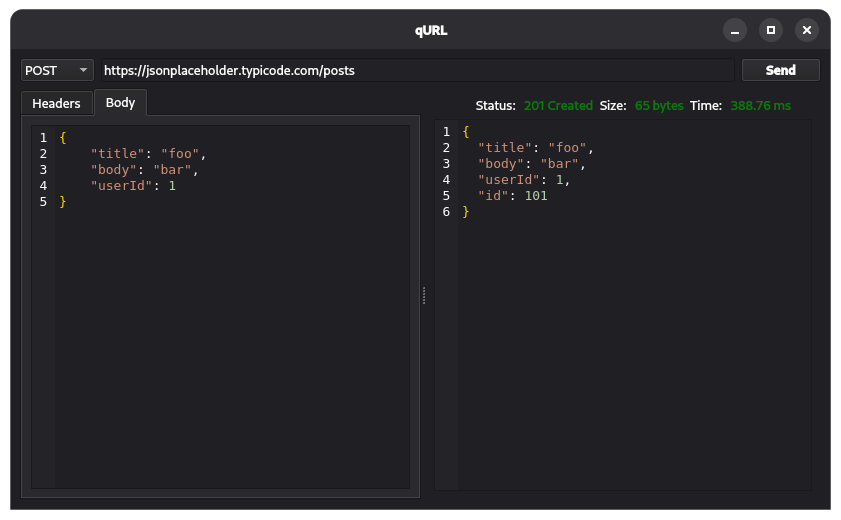
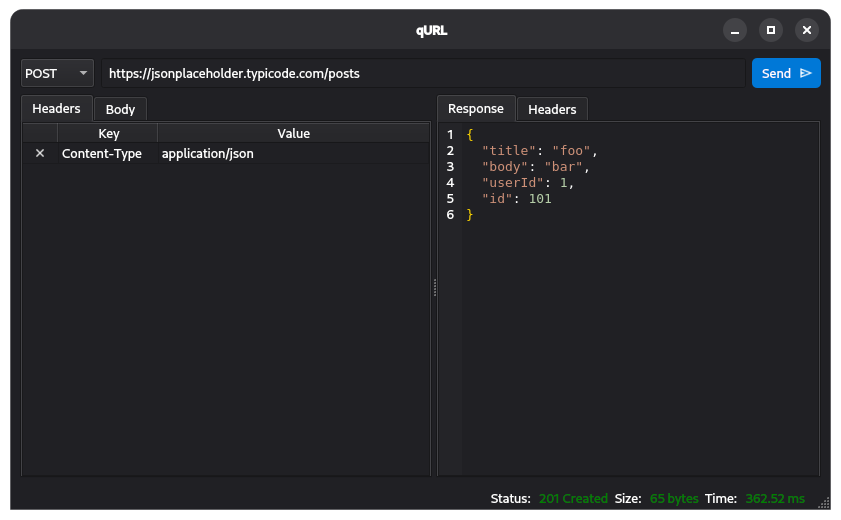
added table for response header

diff --git a/ui.py b/ui.py
@@ -1,6 +1,6 @@
 from PySide6.QtWidgets import QApplication, QTableWidget, QWidget, QMainWindow, QVBoxLayout, QHBoxLayout, QComboBox, QLineEdit, QPushButton, QPlainTextEdit, QSplitter, QTabWidget, QLabel, QStyledItemDelegate
 from PySide6.QtGui import Qt, QFont, QFontMetrics
-from components.request_headers_table import RequestHeadersTable
+from components.table import Table
 import service
 from components.syntax_highlighter import JsonHighlighter
 from qasync import asyncSlot
@@ -26,7 +26,6 @@ class MainWindow(QMainWindow):
 
         self.combo_box = QComboBox(self)
         self.combo_box.setObjectName("method_selector")
-        # self.combo_box.view().setContentsMargins(0, 0, 0, 0)
         self.combo_box.addItem("GET")
         self.combo_box.addItem("POST")
         self.combo_box.addItem("PUT")
@@ -48,8 +47,7 @@ class MainWindow(QMainWindow):
         top_layout.addWidget(self.line_edit)
         top_layout.addWidget(self.send_button)
 
-        # self.header_input = QPlainTextEdit()
-        self.header_input = RequestHeadersTable()
+        self.header_input = Table(editable=True)
         self.body_input = CodeEditor()
         metrics = QFontMetrics(self.header_input.font())
         self.body_input.setTabStopDistance(4 * metrics.horizontalAdvance(' '))
@@ -59,10 +57,6 @@ class MainWindow(QMainWindow):
         central_layout = QSplitter(Qt.Horizontal)
 
         request_tab_widget = QTabWidget()
-        # headers_tab = QWidget()
-        # headers_tab_layout = QVBoxLayout(headers_tab)
-        # headers_tab_layout.addWidget(self.header_input)
-        # self.request_headers_table = RequestHeadersTable()
 
         body_tab = QWidget()
         body_tab_layout = QVBoxLayout(body_tab)
@@ -74,22 +68,10 @@ class MainWindow(QMainWindow):
 
         # right section
 
-        # right_section_widget = QWidget()
-        # right_section = QVBoxLayout(right_section_widget)
-
-        # response_info_container = QHBoxLayout()
-        # response_info_container.setAlignment(Qt.AlignmentFlag.AlignRight)
-        # response_info_container.setContentsMargins(0, 0, 20, 0)
-
         self.status_label = QLabel("")
         self.size_label = QLabel("")
         self.time_label = QLabel("")
-
-        # response_info_container.addWidget(self.status_label)
-        # response_info_container.addWidget(self.size_label)
-        # response_info_container.addWidget(self.time_label)
-        
-
+      
         self.response_editor = CodeEditor()
         metrics = QFontMetrics(self.response_editor.font())
         self.response_editor.setTabStopDistance(4 * metrics.horizontalAdvance(' '))
@@ -97,20 +79,16 @@ class MainWindow(QMainWindow):
         self.response_editor.setReadOnly(True)
         self.highlighter = JsonHighlighter(self.response_editor.document())
 
-        self.response_header_editor = QPlainTextEdit()
-        self.response_header_editor.setReadOnly(True)
+        # self.response_header_editor = QPlainTextEdit()
+        # self.response_header_editor.setReadOnly(True)
+        self.response_header_editor = Table(editable=False)
 
         response_tab_widget = QTabWidget()
-        # response_tab = QWidget()
-        # response_tab_layout = QVBoxLayout(response_tab)
-        # response_tab_layout.addWidget(self.response_editor)
+        
 
         response_tab_widget.addTab(self.response_editor, "Response")
         response_tab_widget.addTab(self.response_header_editor, "Headers")
-        # right_section.addLayout(response_info_container)
-        # right_section.addWidget(response_tab_widget)
-
-        # right_section.addWidget(self.response_editor)
+        
         central_layout.addWidget(response_tab_widget)
         
 
@@ -126,14 +104,12 @@ class MainWindow(QMainWindow):
         
         self.setCentralWidget(container)
         self.status_bar = self.statusBar()
-        # self.combo_box.setItemDelegate(QStyledItemDelegate())
 
     @asyncSlot()
     async def button_clicked(self):
         self.send_button.setDisabled(True)
         try:
-            print(self.header_input.get_headers())
-            result = await service.invoke(url=self.line_edit.text(), method=self.combo_box.currentText(), headers=self.header_input.get_headers(), body=self.body_input.toPlainText())
+            result = await service.invoke(url=self.line_edit.text(), method=self.combo_box.currentText(), headers=self.header_input.get_data(), body=self.body_input.toPlainText())
 
             color = "white"
             if result["status"] >= 100 and result["status"] < 200:
@@ -146,7 +122,8 @@ class MainWindow(QMainWindow):
                 color = "red"
 
             self.response_editor.setPlainText(str(result["content"]))
-            self.response_header_editor.setPlainText(transform_headers_dict(result["headers"]))
+            # print(transform_headers_dict(result["headers"]))
+            self.response_header_editor.set_data(result["headers"])
 
             self.status_label.setText(f"Status:&nbsp;&nbsp;&nbsp;<span style='color: {color}'>{str(result['status'])} {HTTP_STATUS_CODES[result['status']]}</span>")
             self.size_label.setText(f"Size:&nbsp;&nbsp;&nbsp;<span style='color: {color}'>{str(result['size'])} bytes</span>")

diff --git a/components/table.py b/components/table.py
@@ -1,28 +1,39 @@
 from PySide6.QtCore import QPoint
-from PySide6.QtWidgets import QAbstractItemView, QHBoxLayout, QHeaderView, QLabel, QPushButton, QTableWidget, QTableWidgetItem, QWidget, QVBoxLayout
+from PySide6.QtWidgets import QAbstractItemView, QHBoxLayout, QHeaderView, QLabel, QPushButton, QTableWidget, QTableWidgetItem, QWidget, QVBoxLayout, QHeaderView
 from PySide6.QtGui import QIcon, Qt
 from qt_material_icons import MaterialIcon
 
-class RequestHeadersTable(QWidget):
-    def __init__(self):
+class Table(QWidget):
+    def __init__(self, editable=True):
         super().__init__()
         layout = QVBoxLayout(self)
         layout.setContentsMargins(0, 0, 0, 0)
-        self.table = QTableWidget(0, 3)
-        self.table.setHorizontalHeaderLabels([" ", "Key", "Value"])
+        self.table = None
+        if editable:
+            self.table = QTableWidget(0, 3)
+            self.table.setHorizontalHeaderLabels([" ", "Key", "Value"])
+            self.table.horizontalHeader().setSectionResizeMode(0, QHeaderView.ResizeMode.Interactive)
+            self.table.horizontalHeader().setSectionResizeMode(1, QHeaderView.ResizeMode.Interactive)
+            self.table.horizontalHeader().setSectionResizeMode(2, QHeaderView.ResizeMode.Fixed)
+            self.table.setColumnWidth(0, 36)
+            self.add_row()
+            self.table.cellChanged.connect(self.on_cell_changed)
+        else:
+            self.table = QTableWidget(0, 2)
+            self.table.setHorizontalHeaderLabels(["Key", "Value"])
+            self.table.horizontalHeader().setSectionResizeMode(0, QHeaderView.ResizeMode.Interactive)
+            self.table.horizontalHeader().setSectionResizeMode(1, QHeaderView.ResizeMode.Interactive)
+
+            self.table.setEditTriggers(QAbstractItemView.EditTrigger.NoEditTriggers)
+
+
         self.table.verticalHeader().hide()
-
+        self.table.verticalHeader().setSectionResizeMode(QHeaderView.ResizeMode.ResizeToContents)
+        self.table.setWordWrap(True)
         self.table.setSelectionMode(QAbstractItemView.SelectionMode.NoSelection)
-
-        self.table.horizontalHeader().setSectionResizeMode(0, QHeaderView.ResizeMode.Interactive)
-        self.table.horizontalHeader().setSectionResizeMode(1, QHeaderView.ResizeMode.Interactive)
-        self.table.horizontalHeader().setSectionResizeMode(2, QHeaderView.ResizeMode.Fixed)
-        self.table.setColumnWidth(0, 36)
         self.table.horizontalHeader().setStretchLastSection(True)
-        
+
         layout.addWidget(self.table)
-        self.add_row()
-        self.table.cellChanged.connect(self.on_cell_changed)
 
     def add_row(self):
         row_position = self.table.rowCount()
@@ -52,8 +63,8 @@ class RequestHeadersTable(QWidget):
 
         self.table.removeRow(index.row())
     
-    def get_headers(self):
-        headers = {}
+    def get_data(self):
+        data = {}
         for row in range(self.table.rowCount()):
             key_item = self.table.item(row, 1)
             value_item = self.table.item(row, 2)
@@ -61,8 +72,15 @@ class RequestHeadersTable(QWidget):
                 key = key_item.text().strip()
                 value = value_item.text().strip()
                 if key and value:
-                    headers[key] = value
-        return headers
+                    data[key] = value
+        return data
+
+    def set_data(self, data):
+        for key, value in data.items():
+            self.table.insertRow(self.table.rowCount())
+            row_position = self.table.rowCount() - 1
+            self.table.setItem(row_position, 0, QTableWidgetItem(key))
+            self.table.setItem(row_position, 1, QTableWidgetItem(value))
     
     def on_cell_changed(self, row, column):
         if row == self.table.rowCount() - 1:

diff --git a/app.py b/app.py
@@ -10,16 +10,10 @@ import os
 import components
 # import hupper
 
-# def load_stylesheet(app, filepath):
-#     file = QFile(filepath)
-#     if file.open(QFile.OpenModeFlag.ReadOnly | QFile.OpenModeFlag.Text):
-#         stream = QTextStream(file)
-#         app.setStyleSheet(stream.readAll())
-
 def create_app():
     app = QApplication(sys.argv)
     app.setStyle("Fusion")
-    # load_stylesheet(app, "style.qss")
+
     base_dir = os.path.dirname(os.path.abspath(components.__file__))
     qss_path = os.path.join(base_dir, "style.qss")
     with open(qss_path, "r") as f:
@@ -37,7 +31,7 @@ def create_app():
 
     loop = QEventLoop(app)
     asyncio.set_event_loop(loop)
-    # app.setDesktopFileName("qURL") 
+
     with loop:
         loop.run_forever()
 
